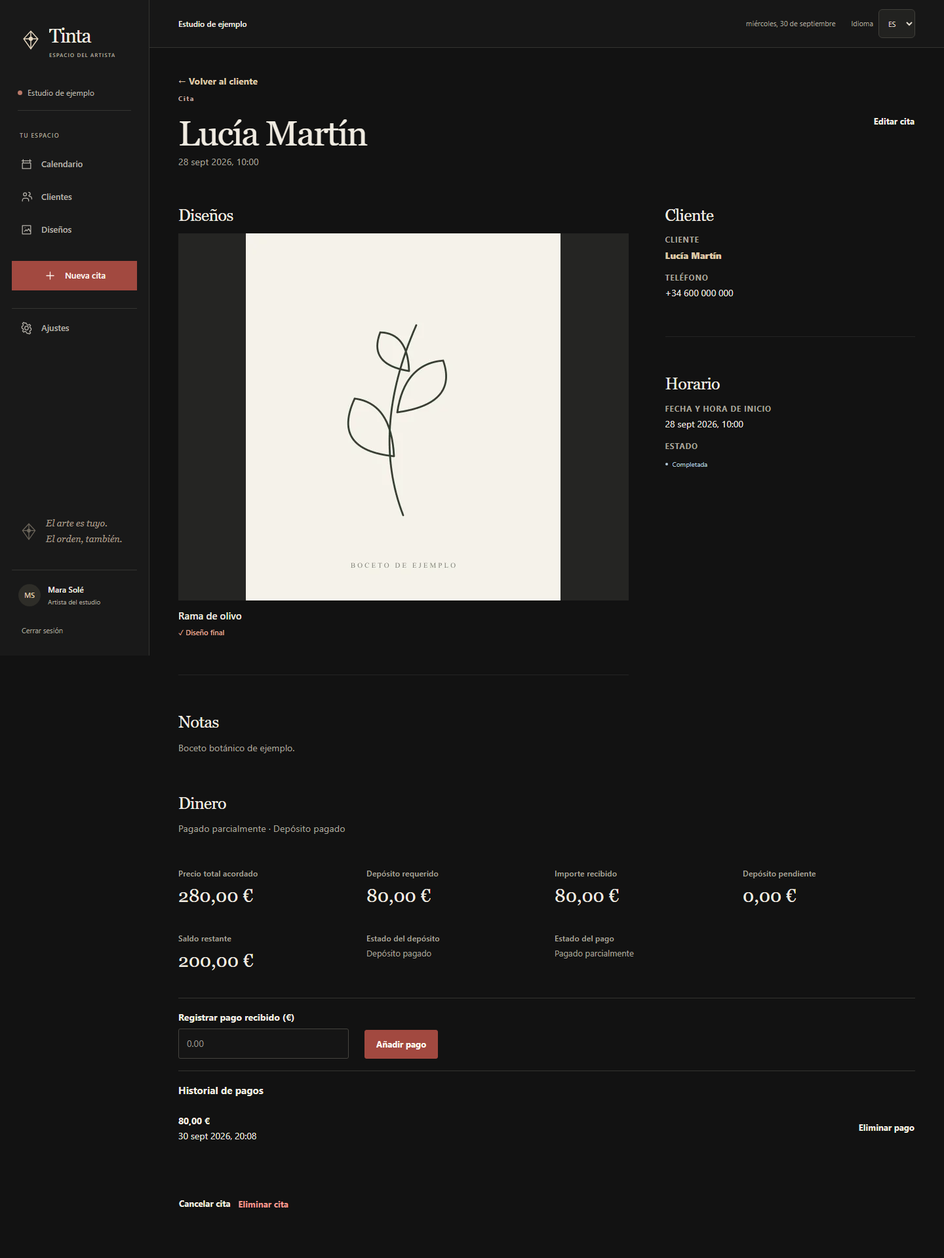
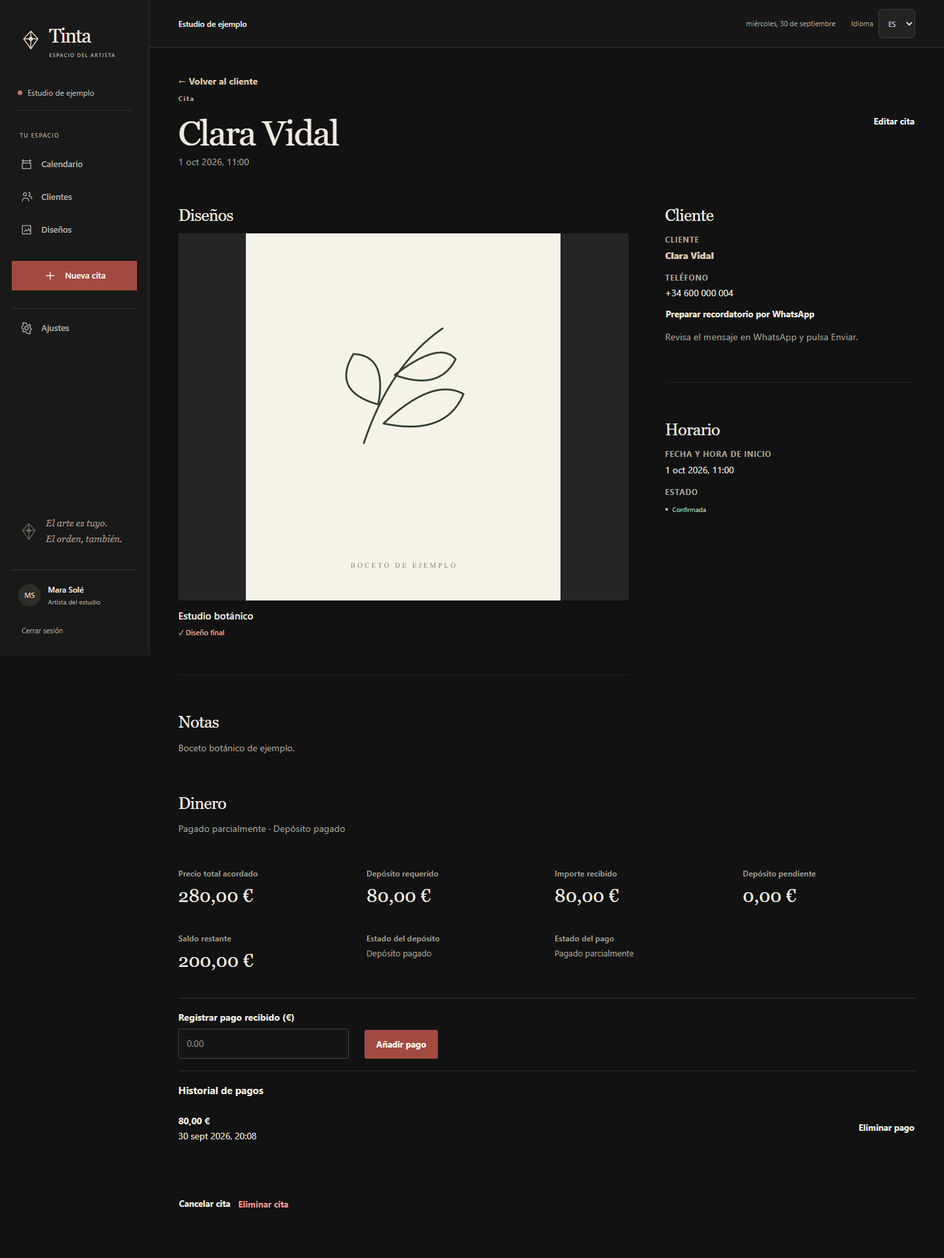
Add customizable manual WhatsApp appointment reminders

diff --git a/tests/whatsapp-reminder.spec.ts b/tests/whatsapp-reminder.spec.ts
@@ -1,0 +1,124 @@
+import { expect, test } from "./fixtures";
+import { Pool } from "pg";
+
+// The rendered message must use the studio's Madrid time, even on a client's device elsewhere.
+test.use({ timezoneId: "America/New_York" });
+
+test("manual WhatsApp reminders use saved artist templates and eligible appointment details", async ({ page }) => {
+  // Repeat the fixture guard before any direct SQL mutation. Real preview/studio data is never used.
+  const databaseUrl = new URL(process.env.DATABASE_URL ?? "");
+  if (process.env.ALLOW_TEST_DB_RESET !== "true" || !databaseUrl.pathname.endsWith("_e2e")) {
+    throw new Error("Reminder verification requires the explicitly disposable _e2e database.");
+  }
+  const pool = new Pool({ connectionString: databaseUrl.href });
+  const externalRequests: string[] = [];
+  page.on("request", request => { if (new URL(request.url()).hostname === "wa.me") externalRequests.push(request.url()); });
+  const year = new Date().getUTCFullYear() + 2;
+  const winter = new Date(Date.UTC(year, 0, 5, 9, 15));
+  const summer = new Date(Date.UTC(year, 6, 5, 8, 15));
+  const customTemplate = "Hola {client},\nTu cita: {date} a las {time}.\nEstudio: {studio}. ¡Nos vemos!";
+  const clientName = "María {studio} & Sol";
+  const appointmentId = "whatsapp-reminder-qa-appointment";
+  const reminder = page.locator('a[href^="https://wa.me/"]');
+
+  try {
+    await page.goto("/sign-up");
+    await page.locator("#name").fill("Artista de pruebas");
+    await page.locator("#email").fill("owner@example.com");
+    await page.locator("#password").fill("Reminder-Test-2026!");
+    await page.locator(".auth-form button[type=submit]").click();
+    await page.waitForURL(/\/calendar/);
+    await expect(page.locator("html")).toHaveAttribute("lang", "es");
+
+    await page.goto("/settings");
+    await expect(page.getByRole("heading", { name: "Recordatorios de WhatsApp", exact: true })).toBeVisible();
+    await page.locator("#studio-name").fill("Línea & Óleo");
+    await page.locator(".studio-settings-form button[type=submit]").click();
+    await expect(page.locator(".studio-settings-form [role=status]")).toBeVisible();
+    await page.locator("#whatsapp-reminder-template").fill(customTemplate);
+    await expect(page.locator("#whatsapp-reminder-preview")).not.toContainText("{client}");
+    await expect(page.locator("#whatsapp-reminder-preview")).toContainText("Línea & Óleo");
+    await page.locator(".reminder-settings-form button[type=submit]").click();
+    await expect(page.locator(".reminder-settings-form [role=status]")).toBeVisible();
+    await page.reload();
+    await expect(page.locator("#whatsapp-reminder-template")).toHaveValue(customTemplate);
+
+    // Invalid placeholders and a bypassed browser length limit must never overwrite saved text.
+    for (const invalid of ["Hola {duration}", "a".repeat(2001)]) {
+      await page.locator("#whatsapp-reminder-template").evaluate(element => element.removeAttribute("maxlength"));
+      await page.locator("#whatsapp-reminder-template").fill(invalid);
+      await page.locator(".reminder-settings-form button[type=submit]").click();
+      await expect(page.locator(".reminder-settings-form [role=alert]")).toBeVisible();
+      const saved = await pool.query('SELECT "whatsappReminderTemplate" FROM "user" WHERE email=$1', ["owner@example.com"]);
+      expect(saved.rows[0].whatsappReminderTemplate).toBe(customTemplate);
+      await page.reload();
+      await expect(page.locator("#whatsapp-reminder-template")).toHaveValue(customTemplate);
+    }
+
+    await page.setViewportSize({ width: 320, height: 900 });
+    expect(await page.evaluate(() => document.documentElement.scrollWidth - document.documentElement.clientWidth)).toBeLessThanOrEqual(1);
+    await page.locator(".app-topbar .language-select").selectOption("en");
+    await expect(page.locator("html")).toHaveAttribute("lang", "en");
+    await expect(page.getByRole("heading", { name: "WhatsApp reminders", exact: true })).toBeVisible();
+    await expect(page.locator("#whatsapp-reminder-template")).toHaveValue(customTemplate);
+    await expect(page.locator(".reminder-settings-form button[type=submit]")).toHaveText("Save changes");
+    await page.reload();
+    await expect(page.locator("#whatsapp-reminder-template")).toHaveValue(customTemplate);
+
+    await page.goto("/clients/new");
+    await page.locator("#client-name").fill(clientName);
+    await page.locator("#client-phone").fill("+34 611 000 222");
+    await page.locator(".client-form button[type=submit]").click();
+    await page.waitForURL(/\/clients\/(?!new$)[A-Za-z0-9_-]+$/);
+    const clientId = new URL(page.url()).pathname.split("/").at(-1)!;
+    const owner = await pool.query('SELECT id FROM "user" WHERE email=$1', ["owner@example.com"]);
+    // Prisma stores UTC in timestamp columns; pass UTC strings rather than pg's local Date serialization.
+    await pool.query('INSERT INTO "Appointment" (id,"artistId","clientId","startsAt","durationMinutes",status,"updatedAt") VALUES ($1,$2,$3,$4,120,\'PLANNED\',now())', [appointmentId, owner.rows[0].id, clientId, winter.toISOString()]);
+
+    async function expectPreparedMessage(date: string, studio = "Línea & Óleo") {
+      await expect(reminder).toHaveCount(1);
+      await expect(reminder).toHaveAttribute("target", "_blank");
+      await expect(reminder).toHaveAttribute("rel", /\bnoopener\b/);
+      const url = new URL((await reminder.getAttribute("href"))!);
+      expect(url.origin).toBe("https://wa.me");
+      expect(url.pathname).toBe("/34611000222");
+      expect(url.searchParams.get("text")).toBe(`Hola ${clientName},\nTu cita: ${date} a las 10:15.\nEstudio: ${studio}. ¡Nos vemos!`);
+    }
+
+    await page.goto(`/appointments/${appointmentId}`);
+    await expect(reminder).toHaveText("Prepare WhatsApp reminder");
+    await expectPreparedMessage(`5 January ${year}`);
+    await page.locator(".app-topbar .language-select").selectOption("es");
+    await expect(reminder).toHaveText("Preparar recordatorio por WhatsApp");
+    await expectPreparedMessage(`5 de enero de ${year}`);
+
+    // A confirmed summer appointment keeps 10:15 Madrid time despite a different UTC offset.
+    await pool.query('UPDATE "Appointment" SET status=\'CONFIRMED\',"startsAt"=$1 WHERE id=$2', [summer.toISOString(), appointmentId]);
+    await page.reload();
+    await expectPreparedMessage(`5 de julio de ${year}`);
+
+    await page.goto("/settings");
+    await page.locator("#studio-name").fill("Estudio Ámbar");
+    await page.locator(".studio-settings-form button[type=submit]").click();
+    await expect(page.locator(".studio-settings-form [role=status]")).toBeVisible();
+    await page.goto(`/appointments/${appointmentId}`);
+    await expectPreparedMessage(`5 de julio de ${year}`, "Estudio Ámbar");
+
+    for (const status of ["COMPLETED", "CANCELLED", "NO_SHOW"]) {
+      await pool.query('UPDATE "Appointment" SET status=$1::"AppointmentStatus" WHERE id=$2', [status, appointmentId]);
+      await page.reload();
+      await expect(reminder).toHaveCount(0);
+    }
+    await pool.query('UPDATE "Appointment" SET status=\'PLANNED\',"startsAt"=$1 WHERE id=$2', [new Date(Date.now() - 86_400_000).toISOString(), appointmentId]);
+    await page.reload();
+    await expect(reminder).toHaveCount(0);
+    await pool.query('UPDATE "Appointment" SET "startsAt"=$1 WHERE id=$2', [winter.toISOString(), appointmentId]);
+    await pool.query('UPDATE "Client" SET phone=$1 WHERE id=$2', ["61100022", clientId]);
+    await page.reload();
+    await expect(reminder).toHaveCount(0);
+    await expect(page.locator("main")).toContainText("teléfono válido");
+    expect(externalRequests).toEqual([]);
+  } finally {
+    await pool.end();
+  }
+});

diff --git a/src/app/(app)/settings/copy.ts b/src/app/(app)/settings/copy.ts
@@ -4,6 +4,8 @@ export const settingsCopy = {
     profile: "Identidad del estudio", profileNote: "Así aparecerás en tu espacio de trabajo.", name: "Tu nombre de artista", studio: "Nombre del estudio", optional: "opcional", studioPlaceholder: "El nombre de tu estudio", email: "Correo de acceso", save: "Guardar cambios", saving: "Guardando…", saved: "Cambios guardados. Tu espacio ya está actualizado.",
     profileErrors: { name: "Escribe un nombre válido de hasta 80 caracteres.", studio: "El nombre del estudio debe tener hasta 80 caracteres y estar en una sola línea.", save: "No se han guardado los cambios. Inténtalo de nuevo." },
     preferences: "Idioma y región", preferencesNote: "Trabaja en el idioma que prefieras.", region: "España · EUR (€)", timezone: "Las citas se muestran en la hora peninsular de España (Europe/Madrid), incluidos los cambios de horario de verano.", language: "Idioma",
+    reminders: "Recordatorios de WhatsApp", remindersNote: "Escribe tu recordatorio a tu manera. Desde una cita puedes abrir WhatsApp, revisar el mensaje y pulsar Enviar.", reminderTemplate: "Tu mensaje", reminderTokens: "Estos campos se completan con los datos de cada cita:", reminderClient: "nombre del cliente", reminderDate: "fecha", reminderTime: "hora", reminderStudio: "nombre del estudio", reminderPreview: "Vista previa", reminderPreviewNote: "Un ejemplo de cómo se verá tu mensaje.", reminderExampleClient: "María", reminderExampleDate: "14 may 2030", reminderReset: "Usar mensaje predeterminado", reminderSaved: "Plantilla del recordatorio guardada.",
+    reminderErrors: { empty: "Escribe un mensaje para el recordatorio.", length: "El mensaje debe tener como máximo 2000 caracteres.", placeholder: "Usa solo {client}, {date}, {time} y {studio}, con las llaves completas.", save: "No se ha guardado la plantilla. Inténtalo de nuevo." },
     security: "Seguridad", securityNote: "Al cambiar la contraseña se cerrarán tus otras sesiones.", currentPassword: "Contraseña actual", newPassword: "Nueva contraseña", confirmPassword: "Repite la nueva contraseña", passwordHint: "Entre 8 y 128 caracteres. Usa una contraseña única.", changePassword: "Cambiar contraseña", passwordSaved: "Contraseña cambiada. Las otras sesiones se han cerrado.",
     passwordErrors: { current: "Comprueba tu contraseña actual.", length: "La nueva contraseña debe tener entre 8 y 128 caracteres.", match: "Las nuevas contraseñas no coinciden.", same: "Elige una contraseña diferente a la actual.", save: "No se ha cambiado la contraseña. Inténtalo de nuevo." },
     createPassword: "Crear contraseña", createPasswordNote: "Añade una contraseña para entrar también con tu correo. Tu cuenta y todos tus datos seguirán siendo los mismos.", google: "Acceso con Google", googleNote: "Conecta la cuenta de Google con el mismo correo para acceder a este mismo espacio de artista.", googleConnected: "Google está conectado a tu cuenta de artista.", googleError: "No se pudo conectar Google. Usa la cuenta con el mismo correo de tu artista e inténtalo de nuevo.",
@@ -14,6 +16,8 @@ export const settingsCopy = {
     profile: "Studio identity", profileNote: "How you appear in your workspace.", name: "Your artist name", studio: "Studio name", optional: "optional", studioPlaceholder: "Your studio's name", email: "Sign-in email", save: "Save changes", saving: "Saving…", saved: "Changes saved. Your workspace is up to date.",
     profileErrors: { name: "Enter a valid name of up to 80 characters.", studio: "Use a studio name of up to 80 characters on a single line.", save: "Changes could not be saved. Please try again." },
     preferences: "Language & region", preferencesNote: "Work in the language you prefer.", region: "Spain · EUR (€)", timezone: "Appointments use mainland Spain time (Europe/Madrid), including daylight saving changes.", language: "Language",
+    reminders: "WhatsApp reminders", remindersNote: "Write your reminder in your own words. From an appointment, open WhatsApp, review the message and press Send.", reminderTemplate: "Your message", reminderTokens: "These fields fill in the details of each appointment:", reminderClient: "client name", reminderDate: "date", reminderTime: "time", reminderStudio: "studio name", reminderPreview: "Preview", reminderPreviewNote: "An example of how your message will look.", reminderExampleClient: "Alex", reminderExampleDate: "14 May 2030", reminderReset: "Use default message", reminderSaved: "Reminder template saved.",
+    reminderErrors: { empty: "Write a reminder message.", length: "Keep the message within 2000 characters.", placeholder: "Use only {client}, {date}, {time} and {studio}, with complete braces.", save: "The template could not be saved. Please try again." },
     security: "Security", securityNote: "Changing your password signs out your other sessions.", currentPassword: "Current password", newPassword: "New password", confirmPassword: "Repeat new password", passwordHint: "Between 8 and 128 characters. Use a unique password.", changePassword: "Change password", passwordSaved: "Password changed. Your other sessions have been signed out.",
     passwordErrors: { current: "Check your current password.", length: "Use a new password between 8 and 128 characters.", match: "The new passwords do not match.", same: "Choose a password different from your current one.", save: "Password could not be changed. Please try again." },
     createPassword: "Create password", createPasswordNote: "Add a password to also sign in with your email. Your account and all your data stay the same.", google: "Google access", googleNote: "Connect the Google account with the same email to sign in to this same artist workspace.", googleConnected: "Google is connected to your artist account.", googleError: "Google could not be connected. Use the account with your artist's email and try again.",

diff --git a/src/app/(app)/settings/page.tsx b/src/app/(app)/settings/page.tsx
@@ -5,13 +5,14 @@ import { prisma } from "@/lib/prisma";
 import { requireArtistId } from "@/lib/session";
 import { isGoogleSignInConfigured } from "@/lib/studio-access";
 import { settingsCopy } from "./copy";
-import { PasswordSettingsForm, StudioSettingsForm } from "./settings-form";
+import { PasswordSettingsForm, ReminderSettingsForm, StudioSettingsForm } from "./settings-form";
+import { getDefaultReminderTemplate } from "@/lib/whatsapp-reminder";
 
 export default async function SettingsPage({ searchParams }: { searchParams: Promise<{ error?: string }> }) {
   const artistId = await requireArtistId();
   const { locale } = await getDictionary();
   const copy = settingsCopy[locale];
-  const artist = await prisma.user.findUniqueOrThrow({ where: { id: artistId }, select: { name: true, studioName: true, email: true } });
+  const artist = await prisma.user.findUniqueOrThrow({ where: { id: artistId }, select: { name: true, studioName: true, email: true, whatsappReminderTemplate: true } });
   const hasPassword = Boolean(await prisma.account.findFirst({ where: { userId: artistId, providerId: "credential", password: { not: null } }, select: { id: true } }));
   const googleLinked = Boolean(await prisma.account.findFirst({ where: { userId: artistId, providerId: "google" }, select: { id: true } }));
   const params = await searchParams;
@@ -21,6 +22,7 @@ export default async function SettingsPage({ searchParams }: { searchParams: Pro
       <div className="page-intro"><p className="eyebrow">{copy.eyebrow}</p><h1 className="page-heading">{copy.title}</h1><p className="muted-copy">{copy.description}</p></div>
       <section className="settings-card workspace-section workspace-split" data-layout="labelled"><div className="settings-card-heading section-intro"><h2>{copy.profile}</h2><p className="muted-copy">{copy.profileNote}</p></div><StudioSettingsForm copy={copy} initial={artist} /></section>
       <section className="settings-card workspace-section workspace-split" data-layout="labelled"><div className="settings-card-heading section-intro"><h2>{copy.preferences}</h2><p className="muted-copy">{copy.preferencesNote}</p></div><div><div className="section-heading-row"><p className="settings-region">{copy.region}</p><LanguageSwitcher locale={locale} label={copy.language} /></div><p className="muted-copy">{copy.timezone}</p></div></section>
+      <section className="settings-card workspace-section workspace-split" data-layout="labelled"><div className="settings-card-heading section-intro"><h2>{copy.reminders}</h2><p className="muted-copy">{copy.remindersNote}</p></div><ReminderSettingsForm key={locale} copy={copy} locale={locale} initialTemplate={artist.whatsappReminderTemplate ?? getDefaultReminderTemplate(locale)} studioName={artist.studioName || artist.name} /></section>
       <section className="settings-card workspace-section workspace-split" data-layout="labelled"><div className="settings-card-heading section-intro"><h2>{copy.security}</h2><p className="muted-copy">{copy.securityNote}</p></div><PasswordSettingsForm copy={copy} hasPassword={hasPassword} /></section>
       {isGoogleSignInConfigured() ? <section className="settings-card workspace-section workspace-split" data-layout="labelled"><div className="settings-card-heading section-intro"><h2>{copy.google}</h2><p className="muted-copy">{googleLinked ? copy.googleConnected : copy.googleNote}</p></div><div>{params.error === "oauth" ? <p className="form-error" role="alert">{copy.googleError}</p> : null}{!googleLinked ? <GoogleLinkButton locale={locale} /> : null}</div></section> : null}
       <section className="settings-card workspace-section workspace-split" data-layout="labelled"><div className="settings-card-heading section-intro"><h2>{copy.data}</h2><p className="muted-copy">{copy.dataNote}</p></div><div><a className="secondary-button button-link" href="/api/account/export" download>{copy.export} <span aria-hidden="true">↓</span></a><p className="muted-copy">{copy.privateNote}</p></div></section>

diff --git a/src/app/(app)/appointments/[id]/page.tsx b/src/app/(app)/appointments/[id]/page.tsx
@@ -9,6 +9,8 @@ import { getDictionary } from "@/i18n";
 import { cancelAppointment, deleteAppointment } from "@/app/(app)/appointments/actions";
 import { deletePayment, recordPayment } from "@/app/(app)/appointments/payment-actions";
 import { calculateMoneySummary, decimalToCents, formatEuro } from "@/lib/money";
+import { studioTimeZone } from "@/lib/studio-time";
+import { getDefaultReminderTemplate, getWhatsAppReminderUrl, renderReminderTemplate } from "@/lib/whatsapp-reminder";
 
 export default async function AppointmentDetailPage({
   params,
@@ -32,6 +34,26 @@ export default async function AppointmentDetailPage({
   });
 
   if (!appointment) notFound();
+
+  const artist = await prisma.user.findUnique({
+    where: { id: artistId },
+    select: { name: true, studioName: true, whatsappReminderTemplate: true },
+  });
+  // This authenticated server page evaluates eligibility at the time of the request.
+  // eslint-disable-next-line react-hooks/purity
+  const isUpcoming = appointment.startsAt.getTime() > Date.now();
+  const canSendReminder = isUpcoming && (appointment.status === "PLANNED" || appointment.status === "CONFIRMED");
+  const reminderLocale = locale === "es" ? "es-ES" : "en-GB";
+  const reminderMessage = renderReminderTemplate(
+    artist?.whatsappReminderTemplate ?? getDefaultReminderTemplate(locale),
+    {
+      client: appointment.client.name,
+      date: new Intl.DateTimeFormat(reminderLocale, { dateStyle: "long", timeZone: studioTimeZone }).format(appointment.startsAt),
+      time: new Intl.DateTimeFormat(reminderLocale, { timeStyle: "short", timeZone: studioTimeZone }).format(appointment.startsAt),
+      studio: artist?.studioName || artist?.name || "",
+    },
+  );
+  const reminderUrl = canSendReminder ? getWhatsAppReminderUrl(appointment.client.phone, reminderMessage) : null;
 
   const cancelAction = cancelAppointment.bind(null, appointment.id);
   const deleteAction = deleteAppointment.bind(null, appointment.id);
@@ -89,6 +111,22 @@ export default async function AppointmentDetailPage({
             <div><dt>{dictionary.appointments.client}</dt><dd><Link className="detail-link" href={`/clients/${appointment.client.id}`}>{appointment.client.name}</Link></dd></div>
             <div><dt>{dictionary.appointments.phone}</dt><dd><a href={`tel:${appointment.client.phone}`}>{appointment.client.phone}</a></dd></div>
           </dl>
+          {canSendReminder ? reminderUrl ? (
+            <>
+              <a className="secondary-button button-link" href={reminderUrl} target="_blank" rel="noopener noreferrer">
+                {locale === "es" ? "Preparar recordatorio por WhatsApp" : "Prepare WhatsApp reminder"}
+              </a>
+              <p className="muted-copy">
+                {locale === "es" ? "Revisa el mensaje en WhatsApp y pulsa Enviar." : "Review the message in WhatsApp and press Send."}
+              </p>
+            </>
+          ) : (
+            <p className="muted-copy">
+              {locale === "es"
+                ? "Para usar WhatsApp, añade un teléfono válido con prefijo internacional o un número español de 9 cifras."
+                : "To use WhatsApp, add a valid phone number with its country code or a 9-digit Spanish number."}
+            </p>
+          ) : null}
         </article>
 
         <article className="appointment-detail-card workspace-section section-intro">

diff --git a/src/app/(app)/settings/settings-form.tsx b/src/app/(app)/settings/settings-form.tsx
@@ -1,8 +1,35 @@
 "use client";
 
-import { useActionState } from "react";
-import { changePassword, updateProfile, type PasswordFormState, type ProfileFormState } from "./actions";
+import { useActionState, useState } from "react";
+import { changePassword, updateProfile, updateReminderTemplate, type PasswordFormState, type ProfileFormState, type ReminderFormState } from "./actions";
 import type { SettingsCopy } from "./copy";
+import { getDefaultReminderTemplate, renderReminderTemplate, REMINDER_TEMPLATE_MAX_LENGTH } from "@/lib/whatsapp-reminder";
+
+export function ReminderSettingsForm({ copy, locale, initialTemplate, studioName }: { copy: SettingsCopy; locale: "es" | "en"; initialTemplate: string; studioName: string }) {
+  const [template, setTemplate] = useState(initialTemplate);
+  const [state, action, pending] = useActionState(updateReminderTemplate, { error: null, savedTemplate: null } as ReminderFormState);
+  const preview = renderReminderTemplate(template, { client: copy.reminderExampleClient, date: copy.reminderExampleDate, time: "14:00", studio: studioName });
+  return (
+    <form action={action} className="client-form settings-form reminder-settings-form">
+      <div className="field">
+        <label htmlFor="whatsapp-reminder-template">{copy.reminderTemplate}</label>
+        <textarea id="whatsapp-reminder-template" name="whatsappReminderTemplate" value={template} onChange={event => setTemplate(event.target.value)} rows={5} maxLength={REMINDER_TEMPLATE_MAX_LENGTH} aria-describedby="whatsapp-reminder-tokens" required />
+        <p className="muted-copy" id="whatsapp-reminder-tokens">{copy.reminderTokens} <code>{"{client}"}</code> ({copy.reminderClient}), <code>{"{date}"}</code> ({copy.reminderDate}), <code>{"{time}"}</code> ({copy.reminderTime}), <code>{"{studio}"}</code> ({copy.reminderStudio}).</p>
+      </div>
+      <div className="section-intro">
+        <h3>{copy.reminderPreview}</h3>
+        <p className="muted-copy">{copy.reminderPreviewNote}</p>
+        <p id="whatsapp-reminder-preview" className="prewrap">{preview}</p>
+      </div>
+      {state.error ? <p className="form-error" role="alert">{copy.reminderErrors[state.error]}</p> : null}
+      {state.savedTemplate !== null && state.savedTemplate === template.trim() ? <p className="form-note settings-success" role="status">{copy.reminderSaved}</p> : null}
+      <div className="form-actions">
+        <button className="primary-button" disabled={pending} type="submit">{pending ? copy.saving : copy.save}</button>
+        <button className="secondary-button" disabled={pending} type="button" onClick={() => setTemplate(getDefaultReminderTemplate(locale))}>{copy.reminderReset}</button>
+      </div>
+    </form>
+  );
+}
 
 export function StudioSettingsForm({ copy, initial }: { copy: SettingsCopy; initial: { name: string; studioName: string | null; email: string } }) {
   const [state, action, pending] = useActionState(updateProfile, { error: null, saved: false } as ProfileFormState);

diff --git a/src/lib/whatsapp-reminder.ts b/src/lib/whatsapp-reminder.ts
@@ -1,0 +1,58 @@
+export const REMINDER_TEMPLATE_MAX_LENGTH = 2000;
+
+type ReminderValues = {
+  client: string;
+  date: string;
+  time: string;
+  studio: string;
+};
+
+export function getDefaultReminderTemplate(locale: "es" | "en"): string {
+  return locale === "es"
+    ? "Hola {client}, te recordamos tu cita de tatuaje el {date} a las {time} en {studio}. ¡Nos vemos pronto!"
+    : "Hi {client}, a reminder about your tattoo appointment on {date} at {time} at {studio}. See you soon!";
+}
+
+export function validateReminderTemplate(value: unknown):
+  | { ok: true; template: string }
+  | { ok: false; error: "empty" | "length" | "placeholder" } {
+  if (typeof value !== "string" || !value.trim()) {
+    return { ok: false, error: "empty" };
+  }
+  const normalized = value.replace(/\r\n?/g, "\n");
+  if (normalized.length > REMINDER_TEMPLATE_MAX_LENGTH) {
+    return { ok: false, error: "length" };
+  }
+
+  const template = normalized.trim();
+  const withoutPlaceholders = template.replace(/\{(?:client|date|time|studio)\}/g, "");
+  if (/[{}]/.test(withoutPlaceholders)) {
+    return { ok: false, error: "placeholder" };
+  }
+  return { ok: true, template };
+}
+
+export function renderReminderTemplate(template: string, values: ReminderValues): string {
+  return template.replace(/\{(client|date|time|studio)\}/g, (_match, key: keyof ReminderValues) => values[key]);
+}
+
+export function getWhatsAppReminderUrl(phone: string, message: string): string | null {
+  const formattedPhone = phone.trim();
+  if (!/^(?:\+|00)?[0-9][0-9\s().-]*$/.test(formattedPhone)) {
+    return null;
+  }
+
+  let digits: string;
+  if (formattedPhone.startsWith("+")) {
+    digits = formattedPhone.slice(1).replace(/[\s().-]/g, "");
+  } else if (formattedPhone.startsWith("00")) {
+    digits = formattedPhone.slice(2).replace(/[\s().-]/g, "");
+  } else {
+    const nationalNumber = formattedPhone.replace(/[\s().-]/g, "");
+    if (!/^[6789][0-9]{8}$/.test(nationalNumber)) return null;
+    digits = `34${nationalNumber}`;
+  }
+
+  if (!/^[1-9][0-9]{7,14}$/.test(digits)) return null;
+  return `https://wa.me/${digits}?text=${encodeURIComponent(message)}`;
+}

diff --git a/src/app/(app)/settings/actions.ts b/src/app/(app)/settings/actions.ts
@@ -6,9 +6,25 @@ import { auth } from "@/lib/auth";
 import { prisma } from "@/lib/prisma";
 import { requireArtistId } from "@/lib/session";
 import { validateNewPassword, validatePasswordChange, validateProfile } from "@/lib/settings-validation";
+import { validateReminderTemplate } from "@/lib/whatsapp-reminder";
 
 export type ProfileFormState = { error: "name" | "studio" | "save" | null; saved: boolean };
 export type PasswordFormState = { error: "current" | "length" | "match" | "same" | "save" | null; saved: boolean };
+export type ReminderFormState = { error: "empty" | "length" | "placeholder" | "save" | null; savedTemplate: string | null };
+
+export async function updateReminderTemplate(_previous: ReminderFormState, formData: FormData): Promise<ReminderFormState> {
+  const artistId = await requireArtistId();
+  const result = validateReminderTemplate(formData.get("whatsappReminderTemplate"));
+  if (!result.ok) return { error: result.error, savedTemplate: null };
+  try {
+    await prisma.user.update({ where: { id: artistId }, data: { whatsappReminderTemplate: result.template } });
+  } catch {
+    return { error: "save", savedTemplate: null };
+  }
+  revalidatePath("/settings");
+  revalidatePath("/appointments/[id]", "page");
+  return { error: null, savedTemplate: result.template };
+}
 
 export async function updateProfile(_previous: ProfileFormState, formData: FormData): Promise<ProfileFormState> {
   const artistId = await requireArtistId();

diff --git a/src/app/api/account/export/route.ts b/src/app/api/account/export/route.ts
@@ -8,7 +8,7 @@ export async function GET() {
   if (!session) return Response.json({ error: "unauthorized" }, { status: 401, headers: { "Cache-Control": "private, no-store" } });
   const artistId = session.user.id;
   const [profile, clients, designs, appointments, payments] = await prisma.$transaction([
-    prisma.user.findUniqueOrThrow({ where: { id: artistId }, select: { id: true, name: true, studioName: true, email: true, language: true, createdAt: true } }),
+    prisma.user.findUniqueOrThrow({ where: { id: artistId }, select: { id: true, name: true, studioName: true, email: true, language: true, whatsappReminderTemplate: true, createdAt: true } }),
     prisma.client.findMany({ where: { artistId }, orderBy: { createdAt: "asc" } }),
     prisma.design.findMany({ where: { artistId }, orderBy: { createdAt: "asc" }, select: { id: true, title: true, notes: true, originalName: true, mimeType: true, fileSize: true, createdAt: true, updatedAt: true } }),
     prisma.appointment.findMany({ where: { artistId }, orderBy: { startsAt: "asc" }, include: { designs: { where: { design: { artistId } }, select: { designId: true, isFinal: true } } } }),

diff --git a/README.md b/README.md
@@ -15,6 +15,7 @@ The dark editorial interface uses six shared layout primitives, open sections an
 - Private artwork library with original files, optimized previews and reusable design selections.
 - Appointments with multiple designs, a final design, price, deposit and payment history.
 - Studio profile, artist preferences and persistent language selection.
+- Optional manual WhatsApp appointment reminders with a customizable template in Settings. Client, date, time and studio placeholders fill in appointment details; the artist reviews the message and presses Send in WhatsApp. No WhatsApp API account or messaging fees are required.
 - A private download of the artist's client, appointment, design metadata and payment records.
 - Responsive desktop workspace and mobile navigation; installable PWA metadata and static asset caching.
 - Ownership checks on records and private image requests; authenticated responses are not publicly cached.
